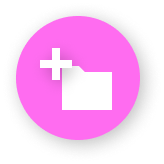
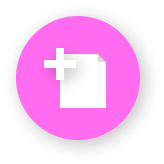
Add component to create files

Changed region(s): [[0.3049, 0.2744, 0.7012, 0.6707], [0.2439, 0.3659, 0.2744, 0.4268]]

diff --git a/src/stateful_components/Home/Home.js b/src/stateful_components/Home/Home.js
@@ -26,6 +26,7 @@ class Home extends React.Component {
               };
 
         this.createFolder = this.createFolder.bind(this);
+        this.createFile = this.createFile.bind(this);
         this.followPath = this.followPath.bind(this);
         this.uploadFile = this.uploadFile.bind(this);
         this.loadFile = this.loadFile.bind(this);
@@ -39,11 +40,11 @@ class Home extends React.Component {
             if (url.value[url.value.length - 1] === '/') {
                 const urlFragments = url.value.split('/');
                 const folderUrl = urlFragments[urlFragments.length - 2];
-                folders.push(folderUrl);
+                folders.push(decodeURIComponent(folderUrl));
             } else {
                 const urlFragments = url.value.split('/');
                 const fileUrl = urlFragments[urlFragments.length - 1];
-                files.push(fileUrl);
+                files.push(decodeURIComponent(fileUrl));
             }
         });
         return [files, folders];
@@ -126,7 +127,22 @@ class Home extends React.Component {
         const folderAddress = window.prompt("Please enter the name for your new folder:", "Untitled Folder");
         const request = {
             method: "POST",
-            headers: { slug: folderAddress, link: '<http://www.w3.org/ns/ldp#BasicContainer>; rel="type"'}
+            headers: { slug: folderAddress, link: '<http://www.w3.org/ns/ldp#BasicContainer>; rel="type"', contentType: "text-turtle"}
+        }
+
+        auth.fetch(this.state.currPath, request).then(() => {
+            this.loadCurrentFolder(this.state.currPath, this.state.breadcrumbs)
+        });
+    }
+
+    createFile(){
+        const store = rdf.graph();
+        const updater = new rdf.UpdateManager(store);
+
+        const folderAddress = window.prompt("Please enter the name for your new file:", "Untitled");
+        const request = {
+            method: "POST",
+            headers: { slug: folderAddress, link: '<http://www.w3.org/ns/ldp#Resource>; rel="type"', contentType: "text-turtle"}
         }
 
         auth.fetch(this.state.currPath, request).then(() => {
@@ -190,7 +206,7 @@ class Home extends React.Component {
                                 image={fileIcon}
                                 onItemClick={this.loadFile}
                             />
-                            <FileCreation onClick={this.createFolder}/>
+                            <FileCreation folder onClick={this.createFolder}/>
                             <FileCreation onClick={this.createFile}/>
                             <FileUpload onChange={this.uploadFile.bind(this)} />
                         </div>

diff --git a/src/functional_components/FileCreation/FileCreation.js b/src/functional_components/FileCreation/FileCreation.js
@@ -1,11 +1,14 @@
 import React from 'react';
-import styles from './FileCreation.module.css';
-import icon from './FileCreation.png';
+import fileStyles from './FileCreation.module.css';
+import folderStyles from './FolderCreation.module.css';
+import fileIcon from './FileCreation.png';
+import folderIcon from "./FolderCreation.png";
 
 const FileCreation = (props) => {
-    return (
-        <img src={icon} className={styles.icon} onClick={() => props.onClick()} alt="file creation icon" />
-    );
+    const fileCreationMarkup = props.folder ? 
+        <img src={folderIcon} className={folderStyles.icon} onClick={() => props.onClick()} alt="file creation icon" /> : <img src={fileIcon} className={fileStyles.icon} onClick={() => props.onClick()} alt="file creation icon" />
+    
+    return fileCreationMarkup;
 };
 
 export default FileCreation;

diff --git a/src/functional_components/FileCreation/FolderCreation.module.css b/src/functional_components/FileCreation/FolderCreation.module.css
@@ -12,28 +12,28 @@
 
 @media (max-width: 415px){
     .icon{
-        bottom: 30%;
+        bottom: 20%;
         right: 10%;
     }
 }
 
 @media (min-width: 415px) and (max-width: 1100px){
     .icon{
-        bottom: 32%;
+        bottom: 20%;
         right: 13%;
     }
 }
 
 @media (min-width: 1100px) and (max-width: 1700px){
     .icon{
-        bottom: 32%;
+        bottom: 20%;
         right: 18%;
     }
 }
 
 @media (min-width: 1700px){
     .icon{
-        bottom: 32%;
+        bottom: 20%;
         right: 25%;
     }
 }
